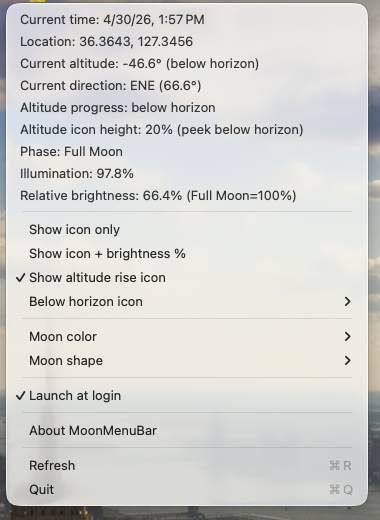
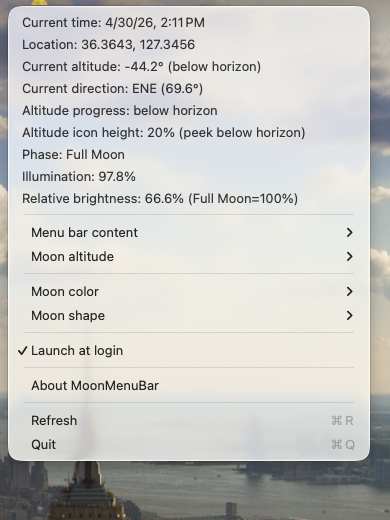
Group moon altitude menu controls

Changed region(s): [[0.0, 0.0, 1.0, 1.0]]

diff --git a/Sources/MoonMenuBarApp.swift b/Sources/MoonMenuBarApp.swift
@@ -2,23 +2,38 @@ import Cocoa
 import CoreLocation
 import Darwin
 
-private enum DisplayMode: String {
+private enum DisplayMode: String, CaseIterable {
     case iconOnly
     case iconAndBrightness
-    case altitudeIcon
-}
-
-private enum BelowHorizonIconPolicy: String, CaseIterable {
-    case hidden
-    case peek
 
     var menuTitle: String {
         switch self {
-        case .hidden:
-            return "Hide below horizon"
-        case .peek:
-            return "Peek below horizon"
+        case .iconOnly:
+            return "Show icon only"
+        case .iconAndBrightness:
+            return "Show icon + brightness %"
         }
+    }
+}
+
+private enum AltitudeIconMode: String, CaseIterable {
+    case disabled
+    case hideBelowHorizon
+    case peekBelowHorizon
+
+    var menuTitle: String {
+        switch self {
+        case .disabled:
+            return "Ignore moon altitude"
+        case .hideBelowHorizon:
+            return "Use altitude, hide below horizon"
+        case .peekBelowHorizon:
+            return "Use altitude, peek below horizon"
+        }
+    }
+
+    var usesAltitude: Bool {
+        self != .disabled
     }
 }
 
@@ -57,7 +72,7 @@ private final class MoonStatusView: NSView {
     private var iconColor: MoonIconColor = .white
     private var surfaceStyle: MoonSurfaceStyle = .none
     private var altitudeTrack: MoonAltitudeTrackInfo?
-    private var belowHorizonIconPolicy: BelowHorizonIconPolicy = .hidden
+    private var altitudeIconMode: AltitudeIconMode = .disabled
     private var isPressed = false
 
     private let iconSize: CGFloat = 18.0
@@ -86,7 +101,7 @@ private final class MoonStatusView: NSView {
     }
 
     var preferredWidth: CGFloat {
-        if displayMode == .iconOnly || displayMode == .altitudeIcon {
+        if displayMode == .iconOnly {
             return sidePadding * 2.0 + iconSize
         }
 
@@ -100,14 +115,14 @@ private final class MoonStatusView: NSView {
         iconColor: MoonIconColor,
         surfaceStyle: MoonSurfaceStyle,
         altitudeTrack: MoonAltitudeTrackInfo?,
-        belowHorizonIconPolicy: BelowHorizonIconPolicy
+        altitudeIconMode: AltitudeIconMode
     ) {
         self.phase = phase
         self.displayMode = displayMode
         self.iconColor = iconColor
         self.surfaceStyle = surfaceStyle
         self.altitudeTrack = altitudeTrack
-        self.belowHorizonIconPolicy = belowHorizonIconPolicy
+        self.altitudeIconMode = altitudeIconMode
         needsDisplay = true
     }
 
@@ -143,7 +158,7 @@ private final class MoonStatusView: NSView {
     }
 
     private func resolvedMoonRect(from centeredRect: NSRect) -> NSRect? {
-        guard displayMode == .altitudeIcon else {
+        guard altitudeIconMode.usesAltitude else {
             return centeredRect
         }
 
@@ -151,7 +166,7 @@ private final class MoonStatusView: NSView {
             return centeredRect
         }
 
-        guard altitudeTrack.isAboveHorizon || belowHorizonIconPolicy == .peek else {
+        guard altitudeTrack.isAboveHorizon || altitudeIconMode == .peekBelowHorizon else {
             return nil
         }
 
@@ -200,7 +215,8 @@ final class MoonMenuBarApp: NSObject, NSApplicationDelegate {
     private let displayModeKey = "displayMode"
     private let iconColorKey = "iconColor"
     private let surfaceStyleKey = "surfaceStyle"
-    private let belowHorizonIconPolicyKey = "belowHorizonIconPolicy"
+    private let altitudeIconModeKey = "altitudeIconMode"
+    private let legacyBelowHorizonIconPolicyKey = "belowHorizonIconPolicy"
     private let loginAgentLabel = "com.local.moonmenubar.login"
     private let loginAgentFileName = "com.local.moonmenubar.login.plist"
 
@@ -220,6 +236,9 @@ final class MoonMenuBarApp: NSObject, NSApplicationDelegate {
     private var displayMode: DisplayMode {
         get {
             let raw = UserDefaults.standard.string(forKey: displayModeKey)
+            if raw == "altitudeIcon" {
+                return .iconOnly
+            }
             return DisplayMode(rawValue: raw ?? "") ?? .iconAndBrightness
         }
         set {
@@ -250,13 +269,25 @@ final class MoonMenuBarApp: NSObject, NSApplicationDelegate {
         }
     }
 
-    private var belowHorizonIconPolicy: BelowHorizonIconPolicy {
+    private var altitudeIconMode: AltitudeIconMode {
         get {
-            let raw = UserDefaults.standard.string(forKey: belowHorizonIconPolicyKey)
-            return BelowHorizonIconPolicy(rawValue: raw ?? "") ?? .hidden
+            let raw = UserDefaults.standard.string(forKey: altitudeIconModeKey)
+            if let mode = AltitudeIconMode(rawValue: raw ?? "") {
+                return mode
+            }
+
+            let legacyDisplayMode = UserDefaults.standard.string(forKey: displayModeKey)
+            guard legacyDisplayMode == "altitudeIcon" else {
+                return .disabled
+            }
+
+            let legacyPolicy = UserDefaults.standard.string(forKey: legacyBelowHorizonIconPolicyKey)
+            let migratedMode: AltitudeIconMode = legacyPolicy == "peek" ? .peekBelowHorizon : .hideBelowHorizon
+            UserDefaults.standard.set(migratedMode.rawValue, forKey: altitudeIconModeKey)
+            return migratedMode
         }
         set {
-            UserDefaults.standard.set(newValue.rawValue, forKey: belowHorizonIconPolicyKey)
+            UserDefaults.standard.set(newValue.rawValue, forKey: altitudeIconModeKey)
         }
     }
 
@@ -323,7 +354,7 @@ final class MoonMenuBarApp: NSObject, NSApplicationDelegate {
                 iconColor: iconColor,
                 surfaceStyle: surfaceStyle,
                 altitudeTrack: altitudeTrack,
-                belowHorizonIconPolicy: belowHorizonIconPolicy
+                altitudeIconMode: altitudeIconMode
             )
             statusView.toolTip = statusToolTip(
                 phase: phase,
@@ -371,24 +402,30 @@ final class MoonMenuBarApp: NSObject, NSApplicationDelegate {
                 )
             }
 
-            if let altitudeTrack, altitudeTrack.isAboveHorizon, let peakDate = altitudeTrack.peakDate {
-                let altitudeFractionText = String(format: "%.0f%%", altitudeTrack.altitudeFraction * 100.0)
-                let visibleFractionText = String(format: "%.0f%%", altitudeTrack.visibleFraction * 100.0)
-                addDisabledItem(
-                    String(format: "Current pass peak: %+.1f° at %@", altitudeTrack.peakAltitudeDeg, dateFormatter.string(from: peakDate)),
-                    to: menu
-                )
-                addDisabledItem(String(format: "Altitude icon center threshold: %.0f°", MoonPhaseCalculator.altitudeIconCenterAltitudeDeg), to: menu)
-                addDisabledItem("Altitude progress: \(altitudeFractionText) toward center", to: menu)
-                addDisabledItem("Altitude icon height: \(visibleFractionText) (min 20%)", to: menu)
-            } else {
-                let visibleFractionText = String(format: "%.0f%%", (altitudeTrack?.visibleFraction ?? 0.0) * 100.0)
-                addDisabledItem("Altitude progress: below horizon", to: menu)
-                if belowHorizonIconPolicy == .peek {
-                    addDisabledItem("Altitude icon height: \(visibleFractionText) (peek below horizon)", to: menu)
+            if altitudeIconMode == .disabled {
+                addDisabledItem("Altitude icon mode: ignored", to: menu)
+            } else if let altitudeTrack {
+                if altitudeTrack.isAboveHorizon, let peakDate = altitudeTrack.peakDate {
+                    let altitudeFractionText = String(format: "%.0f%%", altitudeTrack.altitudeFraction * 100.0)
+                    let visibleFractionText = String(format: "%.0f%%", altitudeTrack.visibleFraction * 100.0)
+                    addDisabledItem(
+                        String(format: "Current pass peak: %+.1f° at %@", altitudeTrack.peakAltitudeDeg, dateFormatter.string(from: peakDate)),
+                        to: menu
+                    )
+                    addDisabledItem(String(format: "Altitude icon center threshold: %.0f°", MoonPhaseCalculator.altitudeIconCenterAltitudeDeg), to: menu)
+                    addDisabledItem("Altitude progress: \(altitudeFractionText) toward center", to: menu)
+                    addDisabledItem("Altitude icon height: \(visibleFractionText) (min 20%)", to: menu)
                 } else {
-                    addDisabledItem("Altitude icon height: hidden below horizon", to: menu)
+                    let visibleFractionText = String(format: "%.0f%%", altitudeTrack.visibleFraction * 100.0)
+                    addDisabledItem("Altitude progress: below horizon", to: menu)
+                    if altitudeIconMode == .peekBelowHorizon {
+                        addDisabledItem("Altitude icon height: \(visibleFractionText) (peek below horizon)", to: menu)
+                    } else {
+                        addDisabledItem("Altitude icon height: hidden below horizon", to: menu)
+                    }
                 }
+            } else {
+                addDisabledItem("Altitude icon height: Waiting for location...", to: menu)
             }
         } else {
             addDisabledItem("Location: Waiting...", to: menu)
@@ -403,22 +440,8 @@ final class MoonMenuBarApp: NSObject, NSApplicationDelegate {
 
         menu.addItem(NSMenuItem.separator())
 
-        let iconOnlyItem = NSMenuItem(title: "Show icon only", action: #selector(setIconOnlyMode), keyEquivalent: "")
-        iconOnlyItem.target = self
-        iconOnlyItem.state = displayMode == .iconOnly ? .on : .off
-        menu.addItem(iconOnlyItem)
-
-        let iconBrightnessItem = NSMenuItem(title: "Show icon + brightness %", action: #selector(setIconAndBrightnessMode), keyEquivalent: "")
-        iconBrightnessItem.target = self
-        iconBrightnessItem.state = displayMode == .iconAndBrightness ? .on : .off
-        menu.addItem(iconBrightnessItem)
-
-        let altitudeIconItem = NSMenuItem(title: "Show altitude rise icon", action: #selector(setAltitudeIconMode), keyEquivalent: "")
-        altitudeIconItem.target = self
-        altitudeIconItem.state = displayMode == .altitudeIcon ? .on : .off
-        menu.addItem(altitudeIconItem)
-
-        addBelowHorizonIconPolicyMenu(to: menu)
+        addMenuBarContentMenu(to: menu)
+        addAltitudeIconModeMenu(to: menu)
 
         menu.addItem(NSMenuItem.separator())
         addIconColorMenu(to: menu)
@@ -467,20 +490,22 @@ final class MoonMenuBarApp: NSObject, NSApplicationDelegate {
             "Relative brightness: \(brightnessText)"
         ]
 
-        if let altitudeTrack {
+        if altitudeIconMode == .disabled {
+            parts.append("Altitude icon: ignored")
+        } else if let altitudeTrack {
             if altitudeTrack.isAboveHorizon {
                 let altitudeFractionText = String(format: "%.0f%%", altitudeTrack.altitudeFraction * 100.0)
                 let visibleFractionText = String(format: "%.0f%%", altitudeTrack.visibleFraction * 100.0)
                 parts.append(String(format: "Altitude: %+.1f° / center %.0f° (progress %@, icon %@)", altitudeTrack.currentAltitudeDeg, MoonPhaseCalculator.altitudeIconCenterAltitudeDeg, altitudeFractionText, visibleFractionText))
             } else {
                 let visibleFractionText = String(format: "%.0f%%", altitudeTrack.visibleFraction * 100.0)
-                if belowHorizonIconPolicy == .peek {
+                if altitudeIconMode == .peekBelowHorizon {
                     parts.append(String(format: "Altitude: %+.1f° (below horizon, icon %@)", altitudeTrack.currentAltitudeDeg, visibleFractionText))
                 } else {
                     parts.append(String(format: "Altitude: %+.1f° (below horizon, icon hidden)", altitudeTrack.currentAltitudeDeg))
                 }
             }
-        } else if displayMode == .altitudeIcon {
+        } else if altitudeIconMode.usesAltitude {
             parts.append("Altitude: waiting for location")
         }
 
@@ -503,15 +528,31 @@ final class MoonMenuBarApp: NSObject, NSApplicationDelegate {
         menu.addItem(parent)
     }
 
-    private func addBelowHorizonIconPolicyMenu(to menu: NSMenu) {
-        let parent = NSMenuItem(title: "Below horizon icon", action: nil, keyEquivalent: "")
+    private func addMenuBarContentMenu(to menu: NSMenu) {
+        let parent = NSMenuItem(title: "Menu bar content", action: nil, keyEquivalent: "")
         let submenu = NSMenu()
 
-        for policy in BelowHorizonIconPolicy.allCases {
-            let item = NSMenuItem(title: policy.menuTitle, action: #selector(setBelowHorizonIconPolicy(_:)), keyEquivalent: "")
+        for mode in DisplayMode.allCases {
+            let item = NSMenuItem(title: mode.menuTitle, action: #selector(setDisplayMode(_:)), keyEquivalent: "")
             item.target = self
-            item.representedObject = policy.rawValue
-            item.state = belowHorizonIconPolicy == policy ? .on : .off
+            item.representedObject = mode.rawValue
+            item.state = displayMode == mode ? .on : .off
+            submenu.addItem(item)
+        }
+
+        parent.submenu = submenu
+        menu.addItem(parent)
+    }
+
+    private func addAltitudeIconModeMenu(to menu: NSMenu) {
+        let parent = NSMenuItem(title: "Moon altitude", action: nil, keyEquivalent: "")
+        let submenu = NSMenu()
+
+        for mode in AltitudeIconMode.allCases {
+            let item = NSMenuItem(title: mode.menuTitle, action: #selector(setAltitudeIconMode(_:)), keyEquivalent: "")
+            item.target = self
+            item.representedObject = mode.rawValue
+            item.state = altitudeIconMode == mode ? .on : .off
             submenu.addItem(item)
         }
 
@@ -535,18 +576,15 @@ final class MoonMenuBarApp: NSObject, NSApplicationDelegate {
         menu.addItem(parent)
     }
 
-    @objc private func setIconOnlyMode() {
-        displayMode = .iconOnly
-        updateStatus()
-    }
+    @objc private func setDisplayMode(_ sender: NSMenuItem) {
+        guard
+            let rawValue = sender.representedObject as? String,
+            let mode = DisplayMode(rawValue: rawValue)
+        else {
+            return
+        }
 
-    @objc private func setIconAndBrightnessMode() {
-        displayMode = .iconAndBrightness
-        updateStatus()
-    }
-
-    @objc private func setAltitudeIconMode() {
-        displayMode = .altitudeIcon
+        displayMode = mode
         updateStatus()
     }
 
@@ -574,15 +612,15 @@ final class MoonMenuBarApp: NSObject, NSApplicationDelegate {
         updateStatus()
     }
 
-    @objc private func setBelowHorizonIconPolicy(_ sender: NSMenuItem) {
+    @objc private func setAltitudeIconMode(_ sender: NSMenuItem) {
         guard
             let rawValue = sender.representedObject as? String,
-            let policy = BelowHorizonIconPolicy(rawValue: rawValue)
+            let mode = AltitudeIconMode(rawValue: rawValue)
         else {
             return
         }
 
-        belowHorizonIconPolicy = policy
+        altitudeIconMode = mode
         updateStatus()
     }
 

diff --git a/README.md b/README.md
@@ -43,7 +43,7 @@ The moon is easier to forget than the weather. MoonMenuBar tucks the current pha
   </tr>
   <tr>
     <td>💡 <strong>Moonlight brightness</strong></td>
-    <td>Relative brightness (%) compared to a full moon</td>
+    <td>Relative brightness (%) compared to a full moon, optionally shown beside the icon</td>
   </tr>
   <tr>
     <td>🧭 <strong>Altitude &amp; direction</strong></td>
@@ -51,11 +51,11 @@ The moon is easier to forget than the weather. MoonMenuBar tucks the current pha
   </tr>
   <tr>
     <td>🌘 <strong>Altitude rise icon</strong></td>
-    <td>Optional menu bar mode where the icon rises with lunar altitude, reaches center at 20°, then stays centered</td>
+    <td>Optional altitude-aware icon that rises with lunar altitude, reaches center at 20°, then stays centered</td>
   </tr>
   <tr>
-    <td>↕ <strong>Below-horizon behavior</strong></td>
-    <td>Choose whether the altitude icon is hidden below the horizon or leaves a small peek visible</td>
+    <td>↕ <strong>Display controls</strong></td>
+    <td>Two grouped menu controls choose icon text and whether altitude is ignored, hidden below the horizon, or shown as a peek</td>
   </tr>
   <tr>
     <td>🔆 <strong>Adaptive icon brightness</strong></td>
@@ -116,6 +116,7 @@ The build script produces `MoonMenuBar.app` and `MoonMenuBar.dmg` locally (both 
 
 ## Recent Updates
 
+- **Current** — Grouped the menu bar content and moon altitude behavior into two arrow submenus.
 - **Current** — Altitude rise icon mode: hide/peek below the horizon, rise into center by 20° altitude, and hold centered above that threshold.
 - **Current** — Updated the yellow moon palette and crater texture to better match a warm photographic full moon.
 - **v1.1.4** — Customizable moon icon styles: white, silver, ivory, yellow, and optional moon surface marks.
@@ -132,9 +133,9 @@ The build script produces `MoonMenuBar.app` and `MoonMenuBar.dmg` locally (both 
 |:---:|:---:|
 | <img src="Assets/screenshot-menubar.png" width="360" alt="Menu bar icon" onerror="this.style.display='none'"> | <img src="Assets/screenshot-dropdown.png" width="360" alt="Dropdown panel" onerror="this.style.display='none'"> |
 
-| Below-horizon options | Moon color options |
+| Menu bar content options | Moon altitude options |
 |:---:|:---:|
-| <img src="Assets/screenshot-waxing.png" width="360" alt="Below-horizon icon options" onerror="this.style.display='none'"> | <img src="Assets/screenshot-full.png" width="360" alt="Moon color options" onerror="this.style.display='none'"> |
+| <img src="Assets/screenshot-waxing.png" width="360" alt="Menu bar content options" onerror="this.style.display='none'"> | <img src="Assets/screenshot-full.png" width="360" alt="Moon altitude options" onerror="this.style.display='none'"> |
 
 ---
 
@@ -147,7 +148,7 @@ MoonMenuBar computes everything locally using a two-body astronomical model insp
 | Phase angle | Ecliptic longitude difference between Moon and Sun |
 | Illumination % | `(1 − cos θ) / 2 × 100` where θ is the phase angle |
 | Altitude / Azimuth | Equatorial → horizontal coordinate transform using your latitude, longitude, and local sidereal time |
-| Altitude rise icon | `progress = clamp(altitude / 20°, 0, 1)`, then `height = 20% + 80% × progress` |
+| Altitude rise icon | `disabled`: centered icon; `hide`: no icon below horizon; `peek`: 20% floor below horizon; above horizon uses `progress = clamp(altitude / 20°, 0, 1)` |
 | Icon brightness | Illumination mapped to display luminance |
 
 **Transparency note:** The model is a fast approximation — it omits atmospheric refraction, terrain obstructions, clouds, and higher-order orbital perturbations. Expect accuracy within ~1° for altitude/azimuth and within ~1% for illumination under typical conditions. This is intentional: the goal is a lightweight, offline-first companion, not an ephemeris engine.
